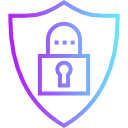
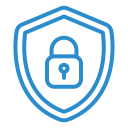
updates

diff --git a/src/components/Invest.tsx b/src/components/Invest.tsx
@@ -8,54 +8,54 @@ export const Invest = () => {
 
   return (
     <>
-    <section className="text-white ">
+    <section className=" bg-white ">
   <div className="max-w-screen-xl px-4 py-8 sm:px-6 sm:py-12 lg:px-8 lg:py-16 mx-auto ">
     <div className="w-full">
-      <h2 className="text-3xl font-bold sm:text-7xl bg-custom-gradient bg-clip-text text-transparent w-full text-center ">{t("InvestSection.¿Por qué invertir en Atómico3?")}</h2>
+      <h2 className="text-3xl font-bold sm:text-7xl text-celeste w-full text-center ">{t("InvestSection.¿Por qué invertir en Atómico3?")}</h2>
 
      
     </div>
 
     <div className="mt-8 grid grid-cols-1 gap-8 md:mt-16 md:grid-cols-2 md:gap-12 lg:grid-cols-3">
-      <div className="flex flex-col items-start justify-start gap-4 bg-dark-light rounded-xl border border-black p-6 sm:p-8 shadow-xl transition hover:border-celeste hover:shadow-light-blue hover:cursor-default">
+      <div className="flex flex-col items-start justify-start gap-4  rounded-xl border border-celeste p-6 sm:p-8 shadow-xl transition hover:border-celeste hover:shadow-light-blue hover:cursor-default">
         <span className="shrink-0 rounded-lg pt-1 text-center flex justify-center">
          <img src={padlock} alt="padlock" className='w-12 text-center'  />
         </span>
 
         <div >
-          <h2 className="text-lg font-bold">{t("InvestSection.Seguridad")}
+          <h2 className="text-lg text-celeste font-bold">{t("InvestSection.Seguridad")}
           </h2>
 
-          <p className="mt-1 text-sm text-gray-300">
+          <p className="mt-1 text-sm text-black">
           {t("InvestSection.Seguridad descripcion")}
           </p>
         </div>
       </div>
 
-      <div className="flex flex-col items-start justify-start gap-4 bg-dark-light rounded-xl border border-black p-6 sm:p-8 shadow-xl transition hover:border-celeste hover:shadow-light-blue hover:cursor-default">
+      <div className="flex flex-col items-start justify-start gap-4  rounded-xl border border-celeste p-6 sm:p-8 shadow-xl transition hover:border-celeste hover:shadow-light-blue hover:cursor-default">
         <span className="shrink-0 rounded-lg  pt-1">
          <img src={technology} alt="technology" className='w-12' />
         </span>
 
         <div>
-          <h2 className="text-lg font-bold">{t("InvestSection.tecnologia y beneficios")}</h2>
+          <h2 className="text-lg text-celeste font-bold">{t("InvestSection.tecnologia y beneficios")}</h2>
 
-          <p className="mt-1 text-sm text-gray-300">
+          <p className="mt-1 text-sm text-black">
           {t("InvestSection.tecnologia y beneficios descripcion")}            
           </p>
         </div>
       </div>
 
-      <div className="flex flex-col items-start justify-start gap-4 bg-dark-light rounded-xl border border-black p-6 sm:p-8 shadow-xl transition hover:border-celeste hover:shadow-light-blue hover:cursor-default">
+      <div className="flex flex-col items-start justify-start gap-4  rounded-xl border border-celeste p-6 sm:p-8 shadow-xl transition hover:border-celeste hover:shadow-light-blue hover:cursor-default">
         <span className="shrink-0 rounded-lg  pt-1">
           <img src={support} alt="support" className='w-12' />
         </span>
 
 
         <div>
-          <h2 className="text-lg font-bold"> {t("InvestSection.soporte")}  </h2>
+          <h2 className="text-lg text-celeste font-bold"> {t("InvestSection.soporte")}  </h2>
 
-          <p className="mt-1 text-sm text-gray-300">
+          <p className="mt-1 text-sm text-black">
           {t("InvestSection.soporte descripcion")}
           </p>
         </div>

diff --git a/src/components/VideoSection.tsx b/src/components/VideoSection.tsx
@@ -7,8 +7,8 @@ export const VideoSection = () => {
 
   return (
 
-    <section className=' flex flex-col justify-center items-center h-1/2 mt-20 mb-20 lg:mb-32  '>
-      <h1 className='text-3xl px-5 text-center lg:text-5xl font-bold sm:text-4xl bg-custom-gradient bg-clip-text text-transparent  lg:mt-0 mb-20'>{t("videoSection.video section title")}</h1>
+    <section className='bg-white flex flex-col justify-center items-center h-1/2 pt-20 pb-20 lg:pb-32  '>
+      <h1 className='text-3xl px-5 text-center lg:text-5xl font-bold sm:text-4xl text-celeste lg:mt-0 mb-20'>{t("videoSection.video section title")}</h1>
       <div className="w-full flex justify-center max-w-[600px] px-5 lg:px-0">
   <div className="relative w-full max-w-4xl h-0 overflow-hidden pb-[56.25%]">
     <iframe

diff --git a/src/views/Home.tsx b/src/views/Home.tsx
@@ -46,6 +46,7 @@ export const Home = () => {
     <span></span>
  </div> */}
     {/* <MenuAppBar/> */}
+
     <Header/>
     {/* <HeaderPrueba/> */}
     <AtomicInfo/>
